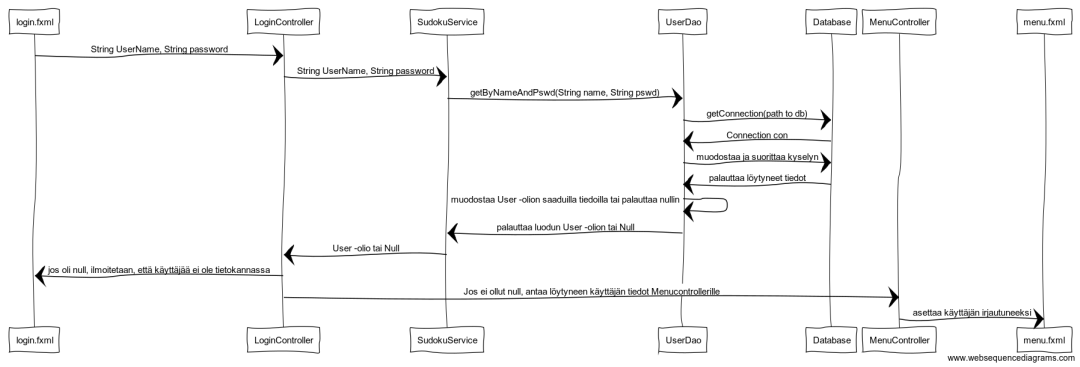
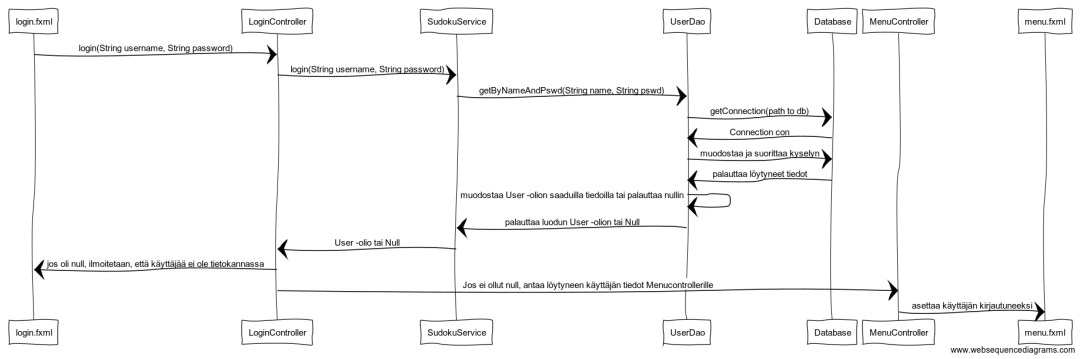
login kuvan korjaukset

diff --git a/dokumentaatio/arkkitehtuuri.md b/dokumentaatio/arkkitehtuuri.md
@@ -45,4 +45,6 @@ Alla on auki esiteltynä osa ohjelman päätoiminnallisuuksita
 
 ### Uuden käyttäjän luominen
 
+![alt text](https://github.com/HegePI/ot-harjoitustyo/blob/master/dokumentaatio/kuvat/createUser.png?raw=true)
+
 ### Pelin tallentaminen
